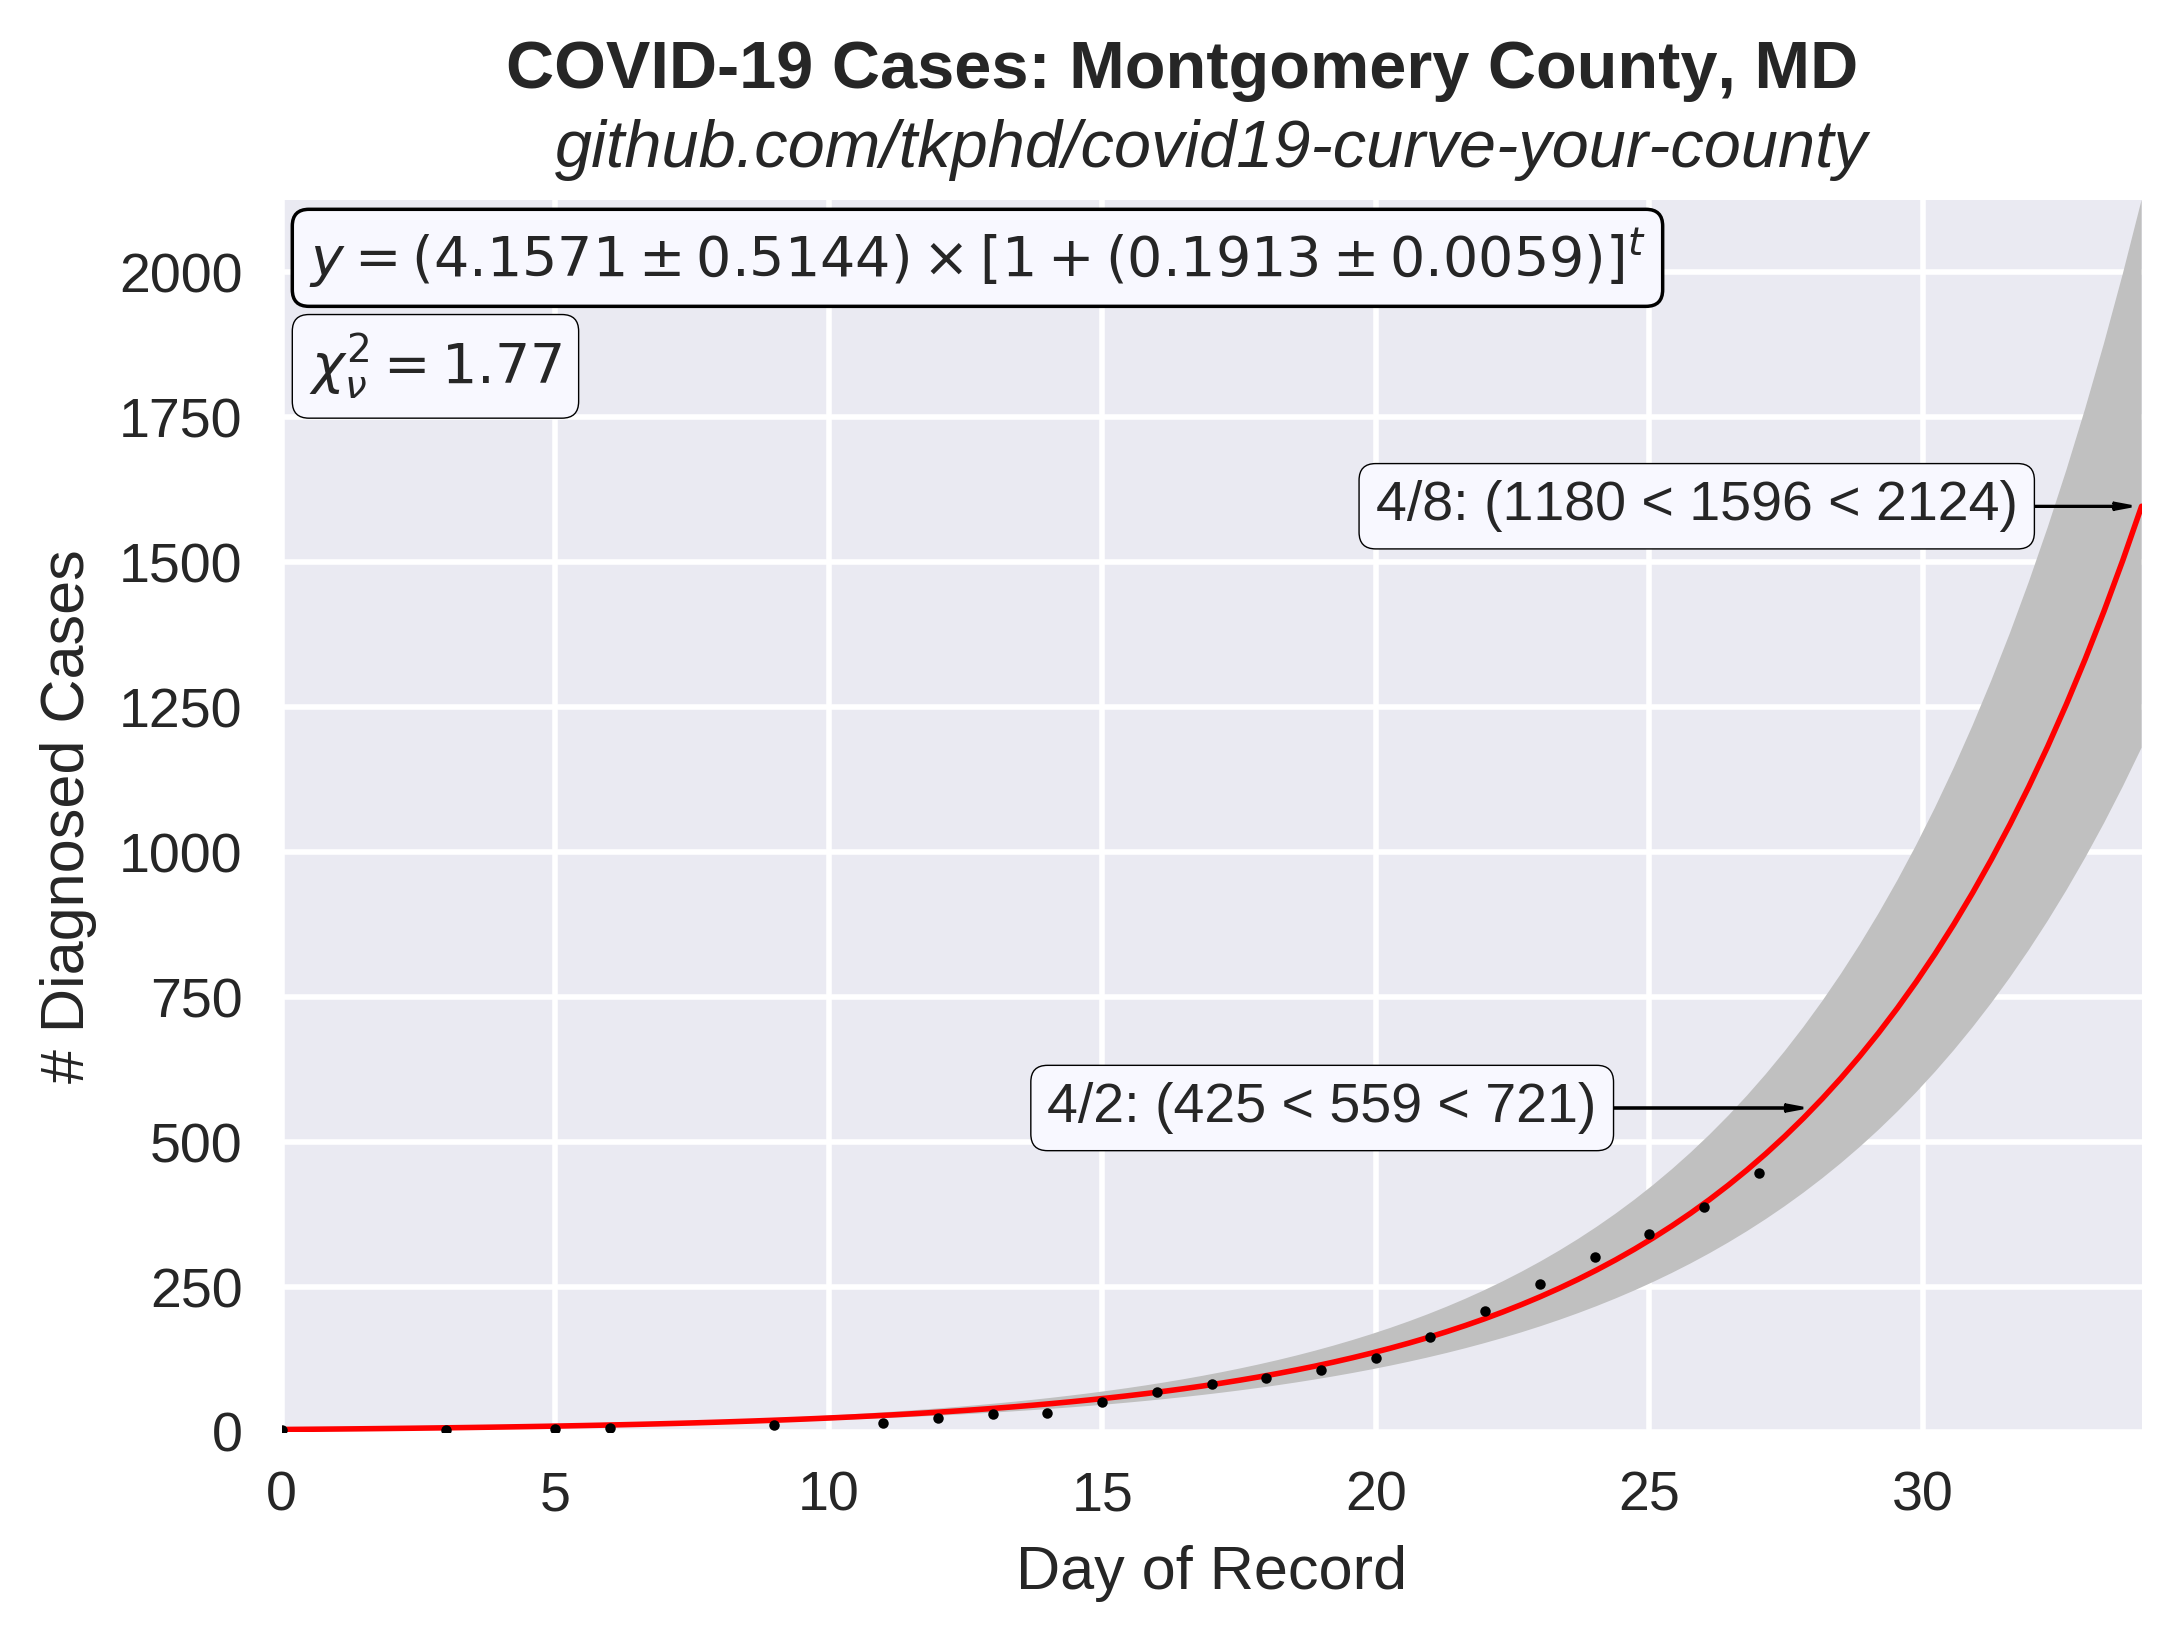
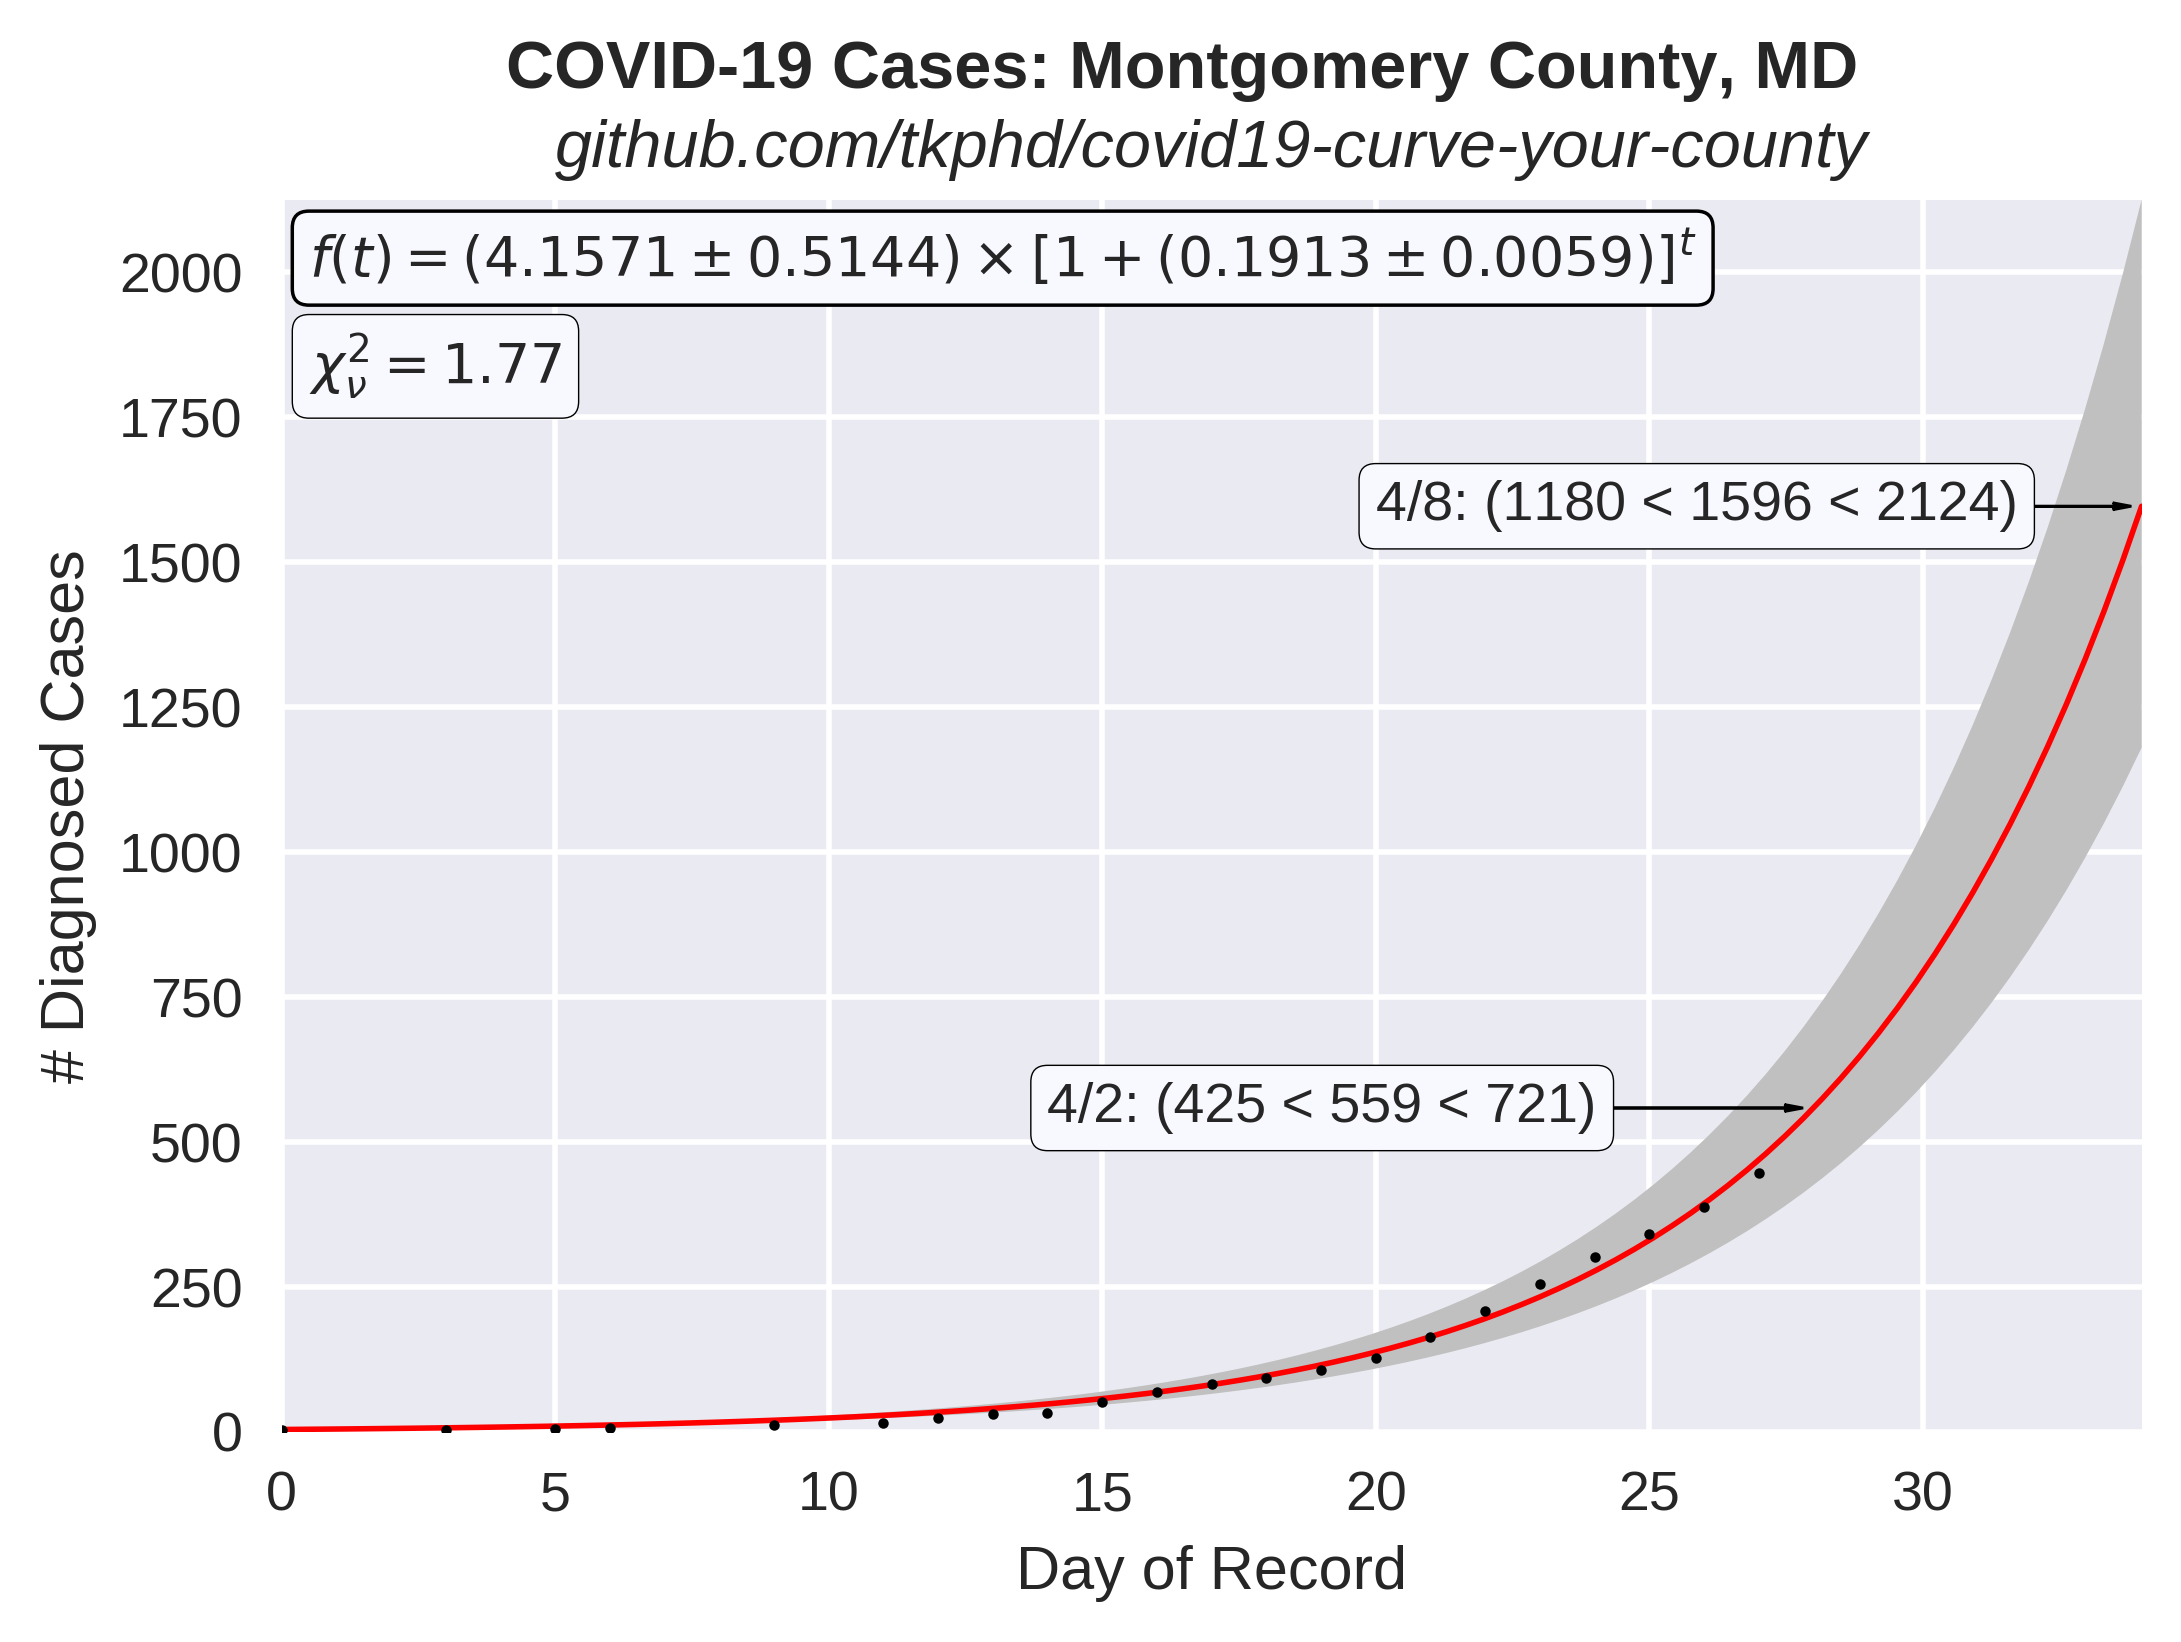
clarify the model

Changed region(s): [[0.1247, 0.1242, 0.7795, 0.1864]]

diff --git a/exponential.py b/exponential.py
@@ -11,10 +11,14 @@ from scipy.stats import describe, chisquare, t
 from matplotlib import style
 style.use("seaborn")
 
+
 def model(t, a, b):
+    # Exponential growth law, $f(t) = a * (1 + b) ^ t$,
+    # where $a$ is the number of cases at $t=0$ and $b$ is the growth rate.
     return a * (1 + b) ** t
 
 def jacobian(t, a, b):
+    # df/dp for p=(a, b)
     return np.array([(1 + b) ** t,
                      (a * t * (1 + b) ** t) / (1 + b)]).T
 
@@ -102,7 +106,7 @@ lower = model(that, lwr_a, lwr_b)
 
 
 plt.text(0.5, (yhat[1] + 3 * upper[1]) / 4,
-         r"$y = ({0:.4f} \pm {2:.4f}) \times [1 + ({1:.4f} \pm {3:.4f})]^t$".format(a, b, perr[0], perr[1]),
+         r"$f(t) = ({0:.4f} \pm {2:.4f}) \times [1 + ({1:.4f} \pm {3:.4f})]^t$".format(a, b, perr[0], perr[1]),
          zorder=5,
          bbox=dict(boxstyle="round", ec="black", fc="ghostwhite", linewidth=2.5*dx)
 )

diff --git a/README.md b/README.md
@@ -9,13 +9,15 @@ Ported from @psteinb's excellent chart for [Dresden, Germany](https://github.com
 
 ## About the Model
 
-The figure above is a least-squares fit to a power-law using the available data:
+The figure above is a least-squares fit the available data using the [exponential growth equation](
+https://en.wikipedia.org/wiki/Exponential_growth):
 
 ```math
 f(t) = a * (1 + b)^t
 ```
 
 where *f* is the number of COVID-19 cases and *t* is time, in days since the first reported cases.
+The two fitting parameters are *a* the number of cases at time *t*=0, and *b* the growth rate.
 The fitting process used in this analysis gives a covariance matrix for the model parameters (*a*
 and *b*). From the covariance matrix, it's possible to compute the one-standard-deviation (sigma)
 bounds on the parameters, assuming that the uncertainty on the number of COVID-19 cases for each day
